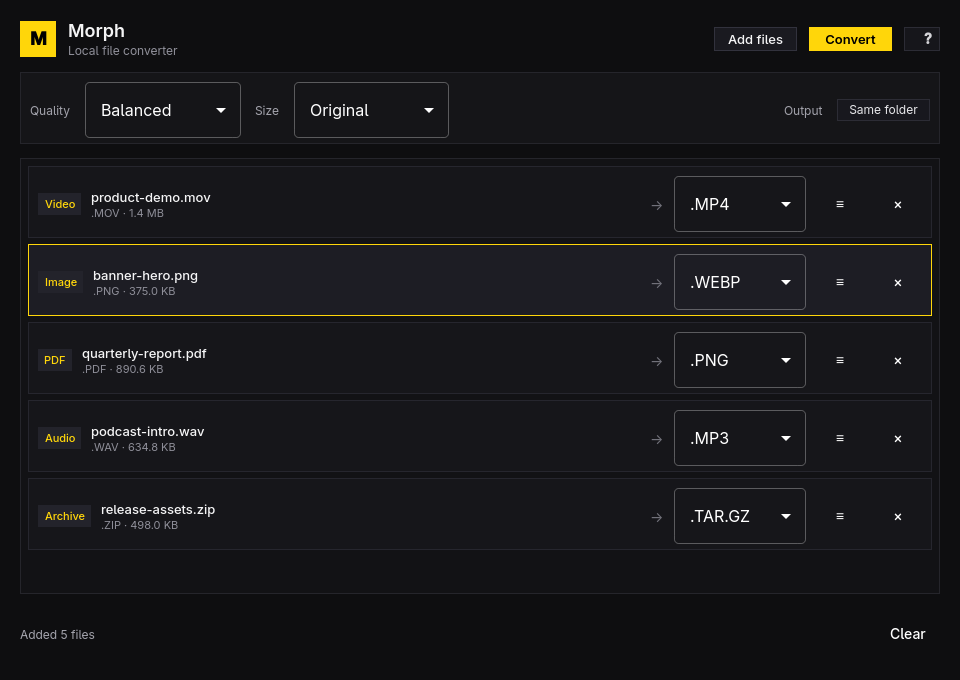
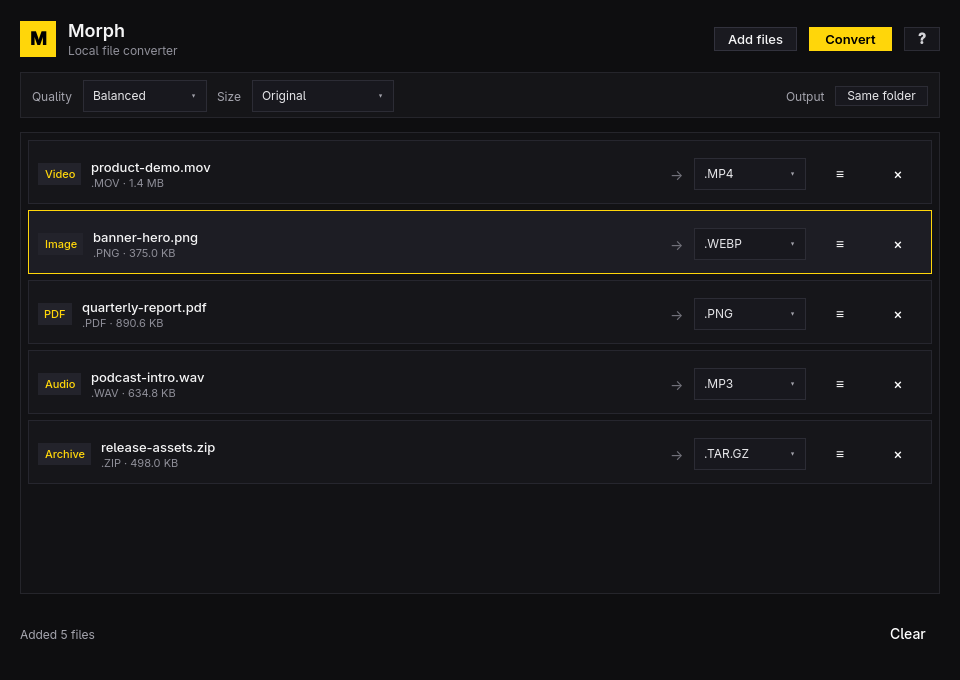
Compact dropdown controls and center help button

diff --git a/src/Main.qml b/src/Main.qml
@@ -189,6 +189,10 @@ ApplicationWindow {
                 Button {
                     id: helpBtn
                     text: "?"
+                    leftPadding: 0
+                    rightPadding: 0
+                    topPadding: 0
+                    bottomPadding: 0
                     implicitWidth: 36
                     implicitHeight: 36
                     onClicked: win.helpVisible = !win.helpVisible
@@ -248,7 +252,7 @@ ApplicationWindow {
             // Options strip: Quality, Size, Output folder
             Rectangle {
                 Layout.fillWidth: true
-                implicitHeight: optsRow.implicitHeight + 16
+                implicitHeight: optsRow.implicitHeight + 14
                 color: "#151518"
                 border.color: "#25252b"
                 border.width: 1
@@ -257,8 +261,10 @@ ApplicationWindow {
                 RowLayout {
                     id: optsRow
                     anchors.fill: parent
-                    anchors.margins: 10
-                    spacing: 14
+                    anchors.margins: 8
+                    anchors.leftMargin: 12
+                    anchors.rightMargin: 12
+                    spacing: 10
 
                     Label {
                         text: qsTr("Quality")
@@ -266,10 +272,9 @@ ApplicationWindow {
                         color: "#a1a1aa"
                     }
 
-                    ComboBox {
+                    CompactCombo {
                         id: qualityBox
-                        Layout.preferredWidth: 156
-                        Material.roundedScale: theme.radius > 0 ? Material.SmallScale : Material.NotRounded
+                        Layout.preferredWidth: 124
                         enabled: !backend.busy
                         model: [
                             { value: "high", label: qsTr("High") },
@@ -287,10 +292,9 @@ ApplicationWindow {
                         color: "#a1a1aa"
                     }
 
-                    ComboBox {
+                    CompactCombo {
                         id: scaleBox
-                        Layout.preferredWidth: 155
-                        Material.roundedScale: theme.radius > 0 ? Material.SmallScale : Material.NotRounded
+                        Layout.preferredWidth: 142
                         enabled: !backend.busy
                         model: [
                             { value: "original", label: qsTr("Original") },
@@ -321,7 +325,7 @@ ApplicationWindow {
                         text: backend.outputDirectory.length > 0
                               ? backend.outputDirectory.split("/").pop() || backend.outputDirectory
                               : qsTr("Same folder")
-                        implicitHeight: 34
+                        implicitHeight: 32
                         leftPadding: 12
                         rightPadding: 12
                         enabled: !backend.busy
@@ -536,10 +540,9 @@ ApplicationWindow {
                                         font.pixelSize: 14
                                     }
 
-                                    ComboBox {
+                                    CompactCombo {
                                         id: targetCombo
-                                        Layout.preferredWidth: 132
-                                        Material.roundedScale: theme.radius > 0 ? Material.SmallScale : Material.NotRounded
+                                        Layout.preferredWidth: 112
                                         enabled: !backend.busy && delegateRoot.rowStatus !== "running"
                                         model: delegateRoot.rowTargets
                                         currentIndex: Math.max(0, delegateRoot.rowTargets.indexOf(delegateRoot.rowTargetFormat))
@@ -547,6 +550,7 @@ ApplicationWindow {
                                         delegate: ItemDelegate {
                                             width: targetCombo.width
                                             text: "." + modelData.toUpperCase()
+                                            font.pixelSize: 12
                                             highlighted: targetCombo.highlightedIndex === index
                                         }
                                         onActivated: backend.setTargetFormat(delegateRoot.rowIndex, delegateRoot.rowTargets[currentIndex])

diff --git a/src/CompactCombo.qml b/src/CompactCombo.qml
@@ -1,0 +1,37 @@
+import QtQuick
+import QtQuick.Controls
+import QtQuick.Controls.Material
+
+ComboBox {
+    id: control
+    implicitHeight: 32
+    leftPadding: 10
+    rightPadding: 26
+    topPadding: 0
+    bottomPadding: 0
+    font.pixelSize: 12
+    Material.roundedScale: theme.radius > 0 ? Material.SmallScale : Material.NotRounded
+
+    background: Rectangle {
+        radius: theme.radius
+        color: control.hovered || control.down ? "#202028" : "#18181e"
+        border.color: control.activeFocus || control.popup.visible ? theme.accent : "#2c2c35"
+        border.width: 1
+    }
+
+    contentItem: Label {
+        text: control.displayText
+        font.pixelSize: control.font.pixelSize
+        color: control.enabled ? "#e4e4e7" : "#71717a"
+        verticalAlignment: Text.AlignVCenter
+        elide: Text.ElideRight
+    }
+
+    indicator: Label {
+        x: control.mirrored ? 10 : control.width - width - 10
+        y: (control.height - height) / 2
+        text: "▾"
+        font.pixelSize: 11
+        color: control.enabled ? "#a1a1aa" : "#52525b"
+    }
+}
